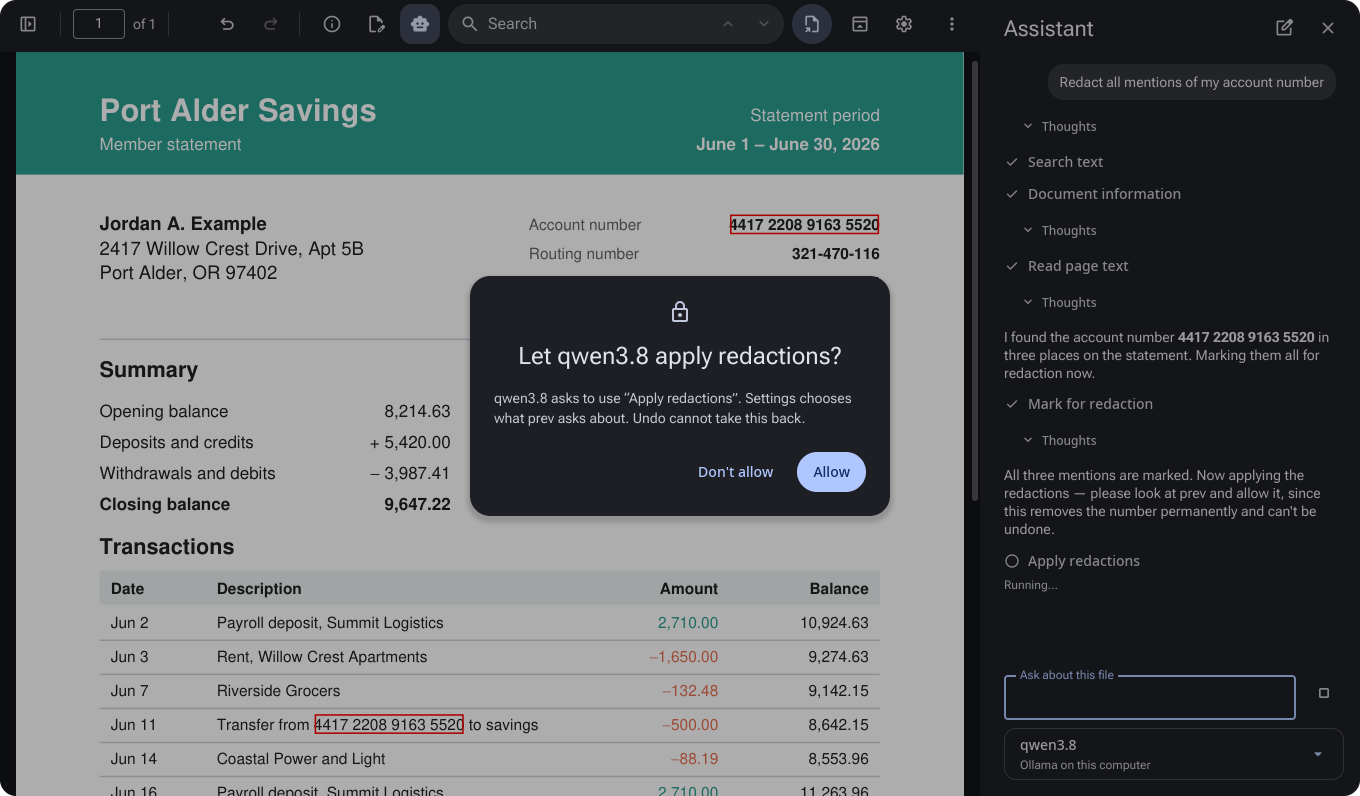
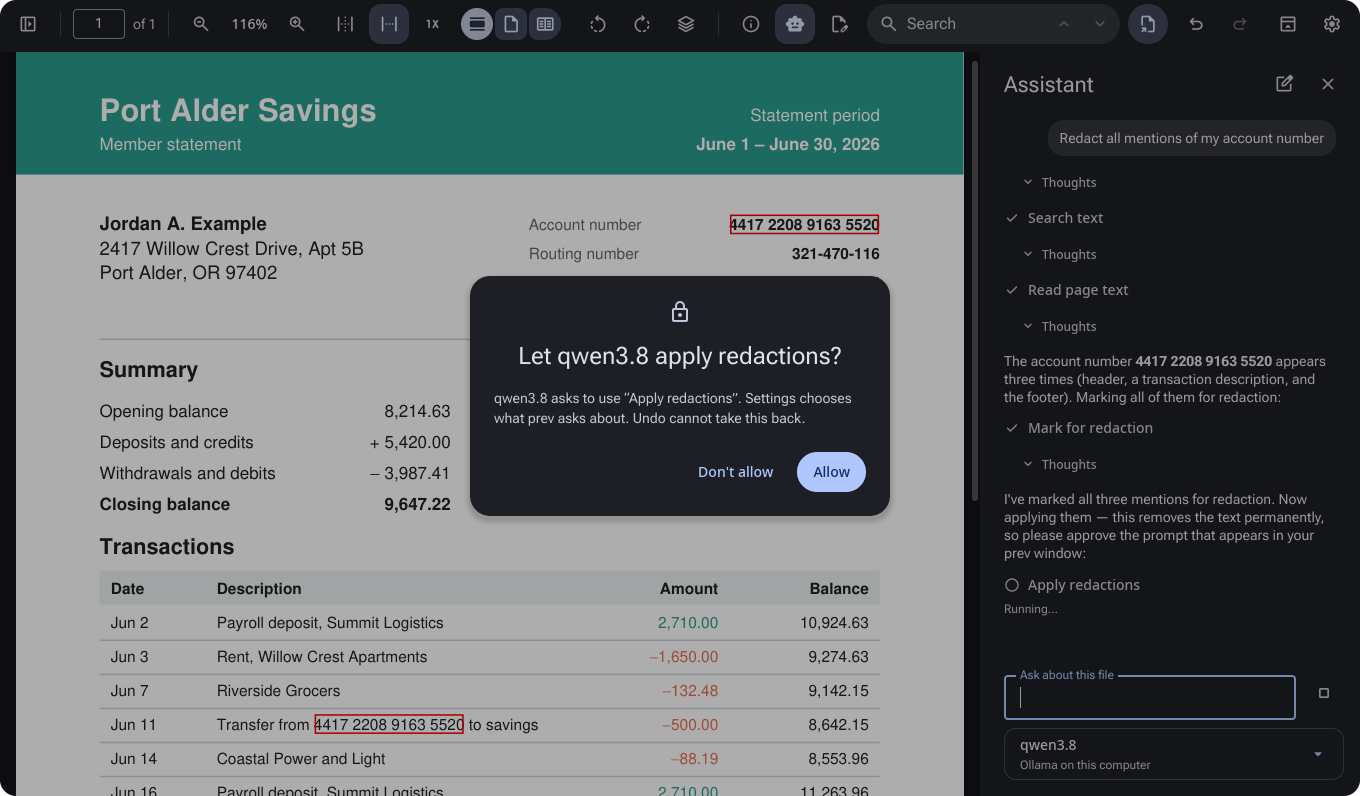
docs: new home page intro and assistant shots
- The intro reads "Fast, open, elegant document and image preview",
  then what prev opens and does, wrapped at the first line's width
- The hero and the guide's approval prompt show the assistant below
  the toolbar, where the inspector goes

diff --git a/site/index.html b/site/index.html
@@ -25,9 +25,9 @@
   <section class="hero">
     <img class="hero-icon" src="icon.svg" alt="The prev icon: a signed document with a beach photo on it" width="128" height="128">
     <h1>prev</h1>
-    <p class="lede">A fast, open source document and image viewer, similar to macOS Preview, built to work with AI agents.
-      Its own assistant, or an agent such as Claude Code over MCP, reads, marks up, fills in, signs and redacts PDFs
-      and edits photos right in your windows.</p>
+    <p class="lede"><span class="lede-first">Fast, open, elegant document and image preview.</span>
+      <span class="lede-rest">Supports PDF forms, annotations and encryption, Markdown files, and most image formats, including RAW and SVG.
+      Review, annotate, sign and redact yourself, or with the integrated AI assistant.</span></p>
     <p class="actions">
       <a class="button filled" href="#download">Download prev 2.0.0</a>
       <a class="button tonal" href="https://github.com/scrambletools/prev">Source on GitHub</a>

diff --git a/site/style.css b/site/style.css
@@ -109,6 +109,14 @@ h3 { font-size: 20px; margin: 0 0 6px; font-weight: 650; }
 .hero { text-align: center; padding-top: 48px; }
 .hero-icon { display: block; margin: 0 auto; }
 .lede { font-size: 20px; max-width: 680px; margin: 0 auto 24px; color: var(--on-surface-variant); }
+/* The rest of the hero's lede wraps at the width of its first line. */
+.hero .lede { width: fit-content; }
+.lede-first { display: block; white-space: nowrap; }
+.lede-rest { display: block; width: 0; min-width: 100%; }
+@media (max-width: 640px) {
+  .lede-first { white-space: normal; }
+  .lede-rest { width: auto; }
+}
 .small { font-size: 15px; color: var(--on-surface-variant); }
 
 .actions { display: flex; gap: 12px; justify-content: center; flex-wrap: wrap; margin: 0 0 12px; }
